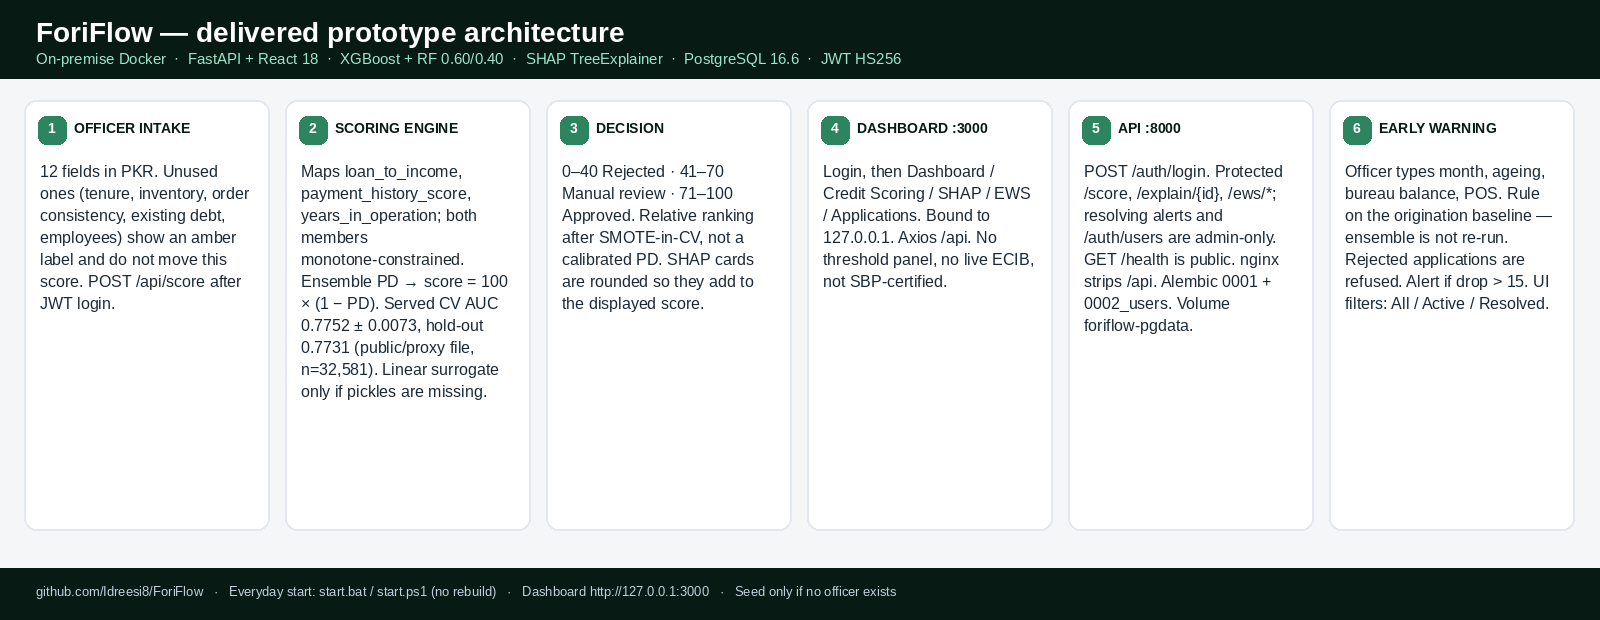
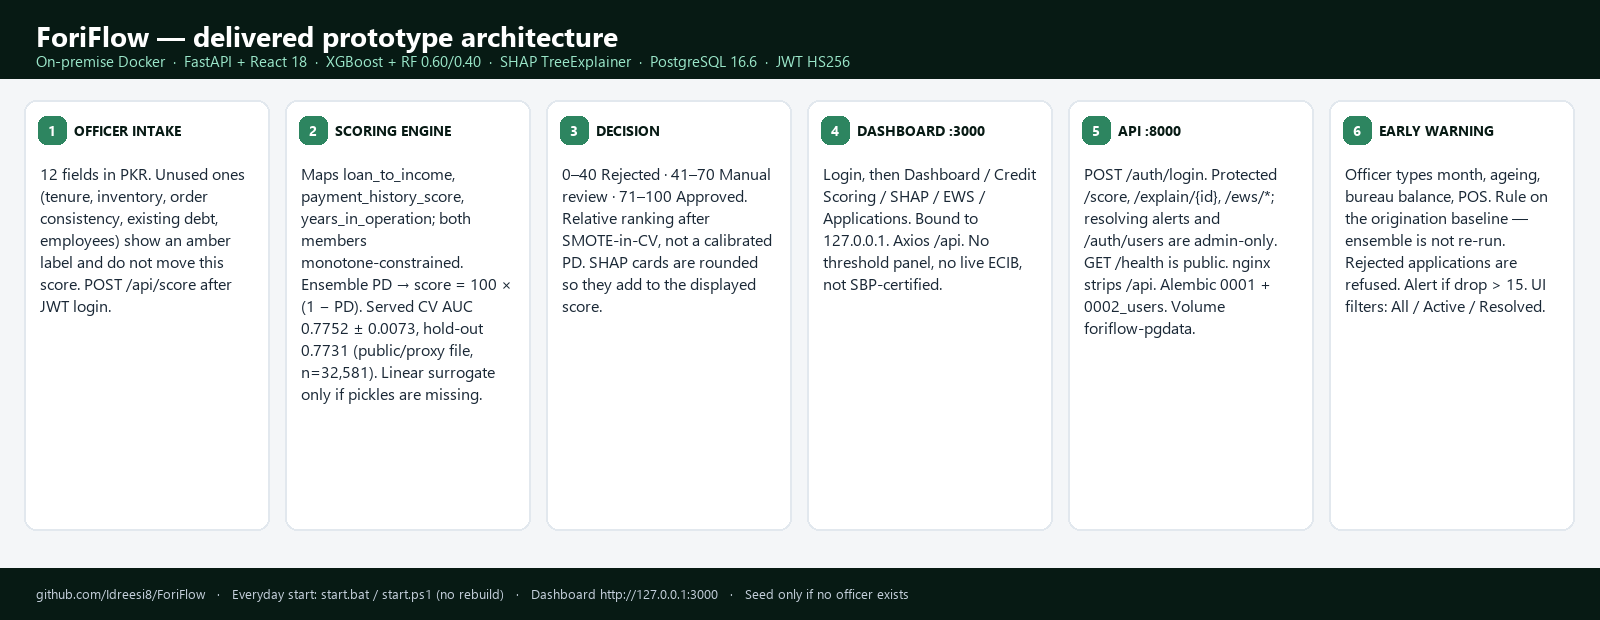
Capture the dashboard after scoring; record latency measured on the laptop
scripts/capture_auth2.py photographed the dashboard before submitting the
Khan Traders application, so 01-dashboard.png showed the previous run's row,
which cleanup_test_applications.py then deletes. It now scores first, so
every screenshot shows the row that is kept.

backend/README.md: scoring latency measured inside the rebuilt 1.2.0
backend container on the development laptop (median 150 ms, p90 207 ms,
30 runs), replacing the cloud-environment figure.

docs/screenshots/architecture-delivered.png: regenerated on the laptop by
scripts/refresh_fyp_figures.py with its intended Segoe UI font.

Claude-Session: https://claude.ai/code/session_01NqdHcg62jAHxXwKBF9J1R1

diff --git a/scripts/capture_auth2.py b/scripts/capture_auth2.py
@@ -225,9 +225,13 @@ def main() -> int:
             p.locator(".swagger-ui .opblock, .swagger-ui .info").first.wait_for(timeout=30000)
             p.wait_for_timeout(800)
 
-        capture(page, "01-dashboard.png", dashboard)
+        # Score first, then photograph the dashboard, so its "Latest
+        # assessment" and recent-applications table show the row this run
+        # created (the one cleanup_test_applications.py keeps), not the
+        # previous run's.
         capture(page, "02-scoring-form.png", form)
         capture(page, "03-score-result.png", result)
+        capture(page, "01-dashboard.png", dashboard)
         capture(page, "04-shap-chart.png", shap)
         capture(page, "05-ews-alerts.png", alerts)
         capture(page, "06-applications.png", applications)

diff --git a/backend/README.md b/backend/README.md
@@ -292,8 +292,9 @@ the trainer sets `enable_categorical=False` for this reason.
 Interventional TreeSHAP over the forest dominates scoring time. The
 unconstrained forest had 86,709 leaves and took about 230 ms per applicant on
 the development laptop; the constrained forest has 4,477 (the model file fell
-from 13.9 MB to 1.1 MB) and takes about 17 ms in the cloud environment used for
-the 25 September retrain. Three things keep it there: a 50-row SHAP
+from 13.9 MB to 1.1 MB). Measured inside the rebuilt backend container on the
+same laptop (26 September 2026, 30 runs, score plus SHAP): median 150 ms, p90
+207 ms. Three things keep it there: a 50-row SHAP
 background, forcing `n_jobs=1` on the loaded members (parallel dispatch cost more
 than it saved for single-row inference — 183 ms versus a few milliseconds), and
 averaging the member probabilities directly instead of making a third pass over
